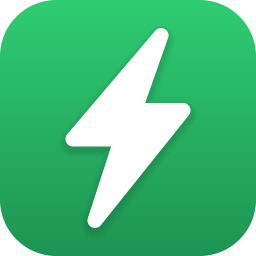
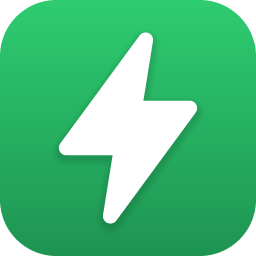
fix: 번개가 삐뚤어 보이던 문제 — 점대칭으로 다시 그림
좌표 여섯 개를 손으로 적었더니 짝이 되는 점끼리 2~3칸씩 어긋나 있었다.
잘 그려진 번개는 예외 없이 점대칭이다. 가운데를 기준으로 180° 돌리면
자기 자신과 겹친다. 어긋나면 눈에 "삐뚤빼뚤"로 읽힌다.

  (66,8) + (36,92) = (102, 100)   ← 어긋남
  (26,55) + (76,42) = (102,  97)  ← 어긋남
  (48,55) + (54,42) = (102,  97)  ← 어긋남

위쪽 절반만 값으로 정하고 아래쪽은 mirror() 로 만들도록 바꿨다.
이제 구조상 어긋날 수 없다. 손으로 고칠 경우에 대비해 그릴 때마다
점대칭인지 스스로 확인하고, 아니면 멈춘다.

Changed region(s): [[0.2188, 0.0938, 0.7812, 0.9062], [0.2812, 0.4688, 0.3125, 0.5]]

diff --git a/tools/make-icon.js b/tools/make-icon.js
@@ -13,16 +13,32 @@ const zlib = require('zlib');
 const ROOT = process.argv[2] || '.';
 const SIZES = [16, 24, 32, 48, 64, 128, 256];
 
+function num(k, dflt) { return process.env[k] ? parseFloat(process.env[k]) : dflt; }
+
 // ── 모양 (100 x 100 칸 기준) ──────────────────────────────────────
-// 위 꼭짓점에서 시작해 시계 방향. 여섯 점이 번개의 기본형이다.
-const BOLT = (process.env.BOLT ? JSON.parse(process.env.BOLT) : [
-    [66,  8],   // 꼭대기
-    [26, 55],   // 왼쪽 허리로 내려옴
-    [48, 55],   // 허리 안쪽
-    [36, 92],   // 아래 끝
-    [76, 42],   // 오른쪽 허리로 올라감
-    [54, 42]    // 허리 안쪽
-]);
+// 📌 잘 그려진 번개는 예외 없이 점대칭이다. 가운데를 기준으로 180° 돌리면
+// 자기 자신과 겹친다. 좌표를 여섯 개 다 손으로 적으면 한두 칸씩 어긋나
+// 삐뚤어 보이므로, 위쪽 절반만 정하고 아래쪽은 계산해서 만든다.
+//
+//        (50+AX, 50-AY)  꼭대기
+//              ///             /  //   (50-BX, 50+BY)  ──  (50-CX, 50+BY)     ← 허리 (왼쪽)
+//
+const AX = num('AX', 8);    // 꼭대기가 가운데서 오른쪽으로 치우친 정도
+const AY = num('AY', 40);   // 꼭대기 높이
+const BX = num('BX', 28);   // 허리 바깥쪽 폭
+const BY = num('BY', 9);    // 허리가 가운데서 벌어진 정도
+const CX = num('CX', 3);    // 허리 안쪽 폭
+
+function mirror(p) { return [100 - p[0], 100 - p[1]]; }
+
+const HALF = [
+    [50 + AX, 50 - AY],   // 꼭대기
+    [50 - BX, 50 + BY],   // 왼쪽 허리 바깥
+    [50 - CX, 50 + BY]    // 왼쪽 허리 안쪽
+];
+const BOLT = process.env.BOLT ? JSON.parse(process.env.BOLT)
+                              : [HALF[0], HALF[1], HALF[2],
+                                 mirror(HALF[0]), mirror(HALF[1]), mirror(HALF[2])];
 
 const CORNER   = num('CORNER', 3.4);    // 번개 끝을 둥글리는 정도
 const FILL     = num('FILL', 0.86);     // 타일에서 차지할 비율
@@ -34,7 +50,6 @@ const SH_DY    = num('SH_DY', 1.6);                   // 그림자를 내릴 거
 const SH_BLUR  = num('SH_BLUR', 3.0);                   // 그림자가 흐려지는 폭
 const SH_MAX   = num('SH_MAX', 0.22);                  // 그림자 진하기
 
-function num(k, dflt) { return process.env[k] ? parseFloat(process.env[k]) : dflt; }
 
 // 둥글리기까지 넣어 실제 넓이를 재고, 가운데로 옮긴 뒤 한 번 더 줄인다.
 const xs = BOLT.map(p => p[0]), ys = BOLT.map(p => p[1]);
@@ -46,6 +61,16 @@ const off = 50 - 50 * FILL;
 
 const P = BOLT.map(p => [(p[0] + dx) * FILL + off, (p[1] + dy) * FILL + off]);
 const RAD = CORNER * FILL;
+
+// 좌표를 손으로 고칠 수도 있으니, 그릴 때마다 점대칭인지 스스로 확인한다.
+[[0, 3], [1, 4], [2, 5]].forEach(([i, j]) => {
+    const sx = BOLT[i][0] + BOLT[j][0], sy = BOLT[i][1] + BOLT[j][1];
+    if (Math.abs(sx - 100) > 0.01 || Math.abs(sy - 100) > 0.01) {
+        console.error('번개가 점대칭이 아닙니다: (' + BOLT[i] + ') + (' + BOLT[j] +
+                      ') = (' + sx + ', ' + sy + ') — (100, 100) 이어야 합니다');
+        process.exit(1);
+    }
+});
 
 // ── 거리 계산 ─────────────────────────────────────────────────────
 
